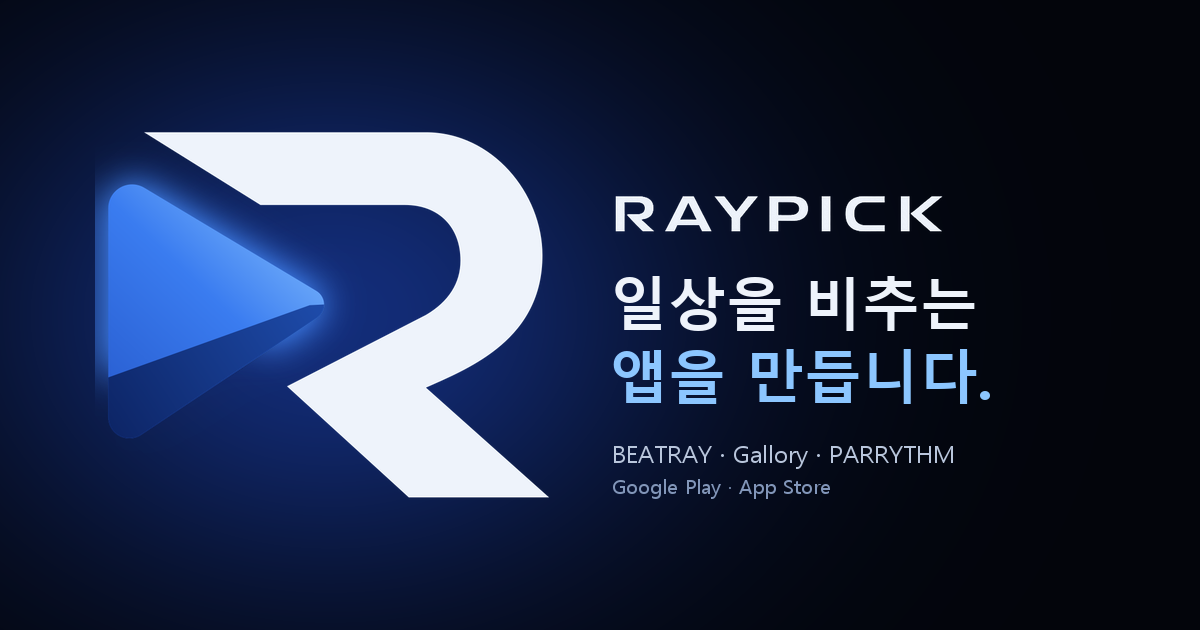
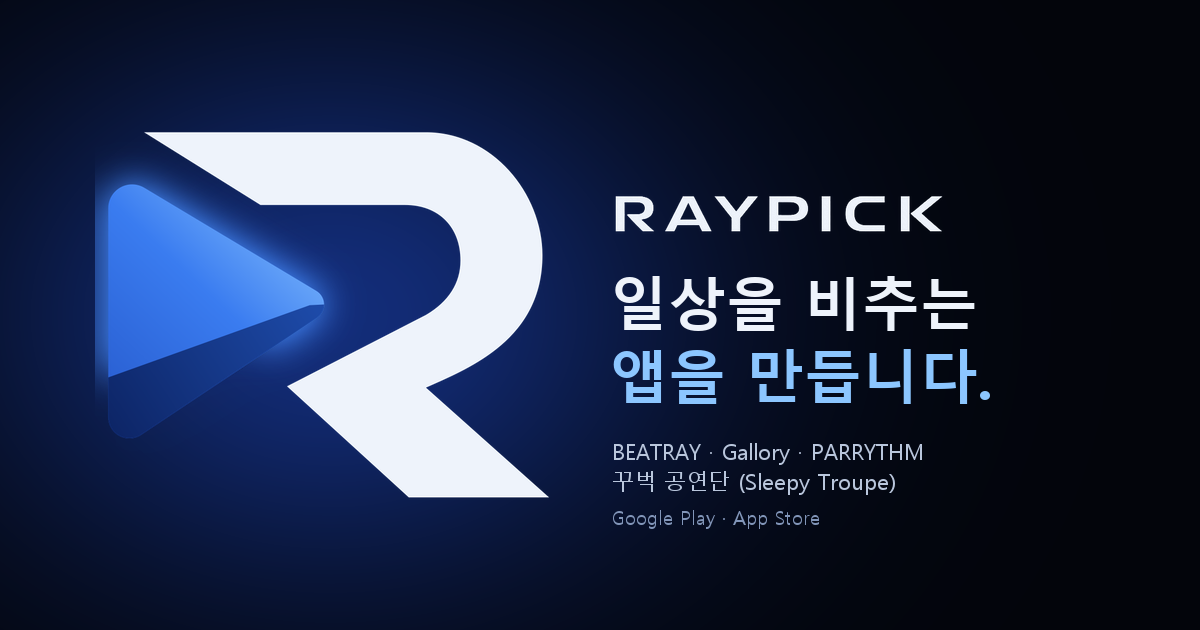
Add Sleepy Troupe (live on Google Play); phone carousel for any number of apps

Changed region(s): [[0.4933, 0.6937, 0.8017, 0.7841], [0.5242, 0.8143, 0.6783, 0.8444]]

diff --git a/src/data/translations.ts b/src/data/translations.ts
@@ -9,7 +9,7 @@ const ko = {
   meta: {
     title: "Raypick — 일상을 비추는 앱을 만듭니다",
     description:
-      "레이픽은 앱을 직접 기획·디자인·개발해 출시하는 회사입니다. BEATRAY, Gallory, PARRYTHM을 Google Play와 App Store에서 만나보세요.",
+      "레이픽은 앱을 직접 기획·디자인·개발해 출시하는 회사입니다. BEATRAY, Gallory, PARRYTHM, 꾸벅 공연단을 Google Play와 App Store에서 만나보세요.",
   },
   nav: { apps: "앱", company: "회사", contact: "문의", menu: "메뉴 열기", close: "메뉴 닫기", lang: "English" },
   hero: {
@@ -30,7 +30,7 @@ const ko = {
     eyebrow: "One studio · Growing worlds",
     title1: "하나의 스튜디오,",
     title2: "계속 늘어나는 세계.",
-    sub: "리듬게임부터 사진 매거진,|동네 도움, 한일 번역 채팅까지.\n레이픽이 직접 기획하고|만들어 출시합니다.",
+    sub: "리듬게임과 퍼즐부터 사진 매거진,|동네 도움, 한일 번역 채팅까지.\n레이픽이 직접 기획하고|만들어 출시합니다.",
     live: "출시",
     coming: "출시 예정",
     updating: "업데이트 준비 중",
@@ -101,7 +101,7 @@ const en: Dict = {
   meta: {
     title: "Raypick — Apps that light up everyday life",
     description:
-      "Raypick plans, designs, builds and ships its own mobile apps. Meet BEATRAY, Gallory and PARRYTHM on Google Play and the App Store.",
+      "Raypick plans, designs, builds and ships its own mobile apps. Meet BEATRAY, Gallory, PARRYTHM and Sleepy Troupe on Google Play and the App Store.",
   },
   nav: { apps: "Apps", company: "Company", contact: "Contact", menu: "Open menu", close: "Close menu", lang: "한국어" },
   hero: {
@@ -122,7 +122,7 @@ const en: Dict = {
     eyebrow: "One studio · Growing worlds",
     title1: "One studio,",
     title2: "ever-growing worlds.",
-    sub: "From a rhythm game and a photo magazine|to neighborhood help and Korea–Japan translated chat —\nplanned, built and shipped by Raypick.",
+    sub: "From rhythm games, puzzles and a photo magazine|to neighborhood help and Korea–Japan translated chat —\nplanned, built and shipped by Raypick.",
     live: "Live",
     coming: "Coming soon",
     updating: "Update in progress",

diff --git a/src/lib/three/phoneScene.ts b/src/lib/three/phoneScene.ts
@@ -23,11 +23,18 @@ interface Phone {
 }
 
 const SW = 0.92, SH = 1.84, BW = 1.0, BH = 1.94, DEPTH = 0.07;
-const SLOTS = [
-  { x: 0, y: 0.12, z: 0.35, ry: -0.06, s: 1 }, // front
-  { x: 1.38, y: -0.14, z: -0.6, ry: -0.42, s: 0.84 }, // right
-  { x: -1.38, y: -0.1, z: -0.6, ry: 0.42, s: 0.84 }, // left
-];
+const FRONT = { x: 0, y: 0.12, z: 0.35, ry: -0.06, s: 1 };
+const RIGHT = { x: 1.38, y: -0.14, z: -0.6, ry: -0.42, s: 0.84 };
+const LEFT = { x: -1.38, y: -0.1, z: -0.6, ry: 0.42, s: 0.84 };
+const BACK = { x: 0, y: -0.04, z: -1.6, ry: 0, s: 0.7 }; // waits behind the front phone
+
+/** carousel spot of the phone `rel` places after the front one — works for any number of apps */
+function slotFor(rel: number, n: number) {
+  if (rel === 0) return FRONT;
+  if (rel === 1) return RIGHT;
+  if (rel === n - 1) return LEFT;
+  return BACK;
+}
 
 function roundedRect(w: number, h: number, r: number) {
   const s = new THREE.Shape(), x = -w / 2, y = -h / 2;
@@ -140,7 +147,7 @@ export class PhoneScene {
       const shadow = new THREE.Mesh(new THREE.PlaneGeometry(1, 1), new THREE.MeshBasicMaterial({ map: shadowTex, transparent: true, depthWrite: false }));
       shadow.rotation.x = -Math.PI / 2;
       this.scene.add(shadow);
-      const slot = { ...SLOTS[(i - this.active + apps.length) % apps.length] };
+      const slot = { ...slotFor((i - this.active + apps.length) % apps.length, apps.length) };
       this.phones.push({ group, a, b, textures, idx: 0, phase: 0, shadow, slot });
     });
 
@@ -218,7 +225,7 @@ export class PhoneScene {
     const n = this.phones.length;
     const k = Math.min(1, dt * 5);
     this.phones.forEach((p, i) => {
-      const target = SLOTS[(i - this.active + n) % n];
+      const target = slotFor((i - this.active + n) % n, n);
       p.slot.x += (target.x - p.slot.x) * k;
       p.slot.y += (target.y - p.slot.y) * k;
       p.slot.z += (target.z - p.slot.z) * k;

diff --git a/src/data/apps.ts b/src/data/apps.ts
@@ -115,6 +115,24 @@ export const apps: AppItem[] = [
     site: "https://parrythm.com",
   },
   {
+    slug: "sleepytroupe",
+    status: "live", // Google Play 2026-11 · App Store 심사 중 (통과하면 stores.ios 추가)
+    name: { ko: "꾸벅 공연단", en: "Sleepy Troupe" },
+    genre: { ko: "추리 퍼즐 게임", en: "Logic puzzle game" },
+    tagline: { ko: "팻말을 읽고 공연단을 제자리에!", en: "Read the signs, seat the troupe!" },
+    description: {
+      ko: "까다로운 꾸벅 공연단 단원들의 팻말을 읽고 모두가 바라는 자리에 앉혀, 잠 못 드는 손님을 재워 주는 추리 퍼즐이에요. 정답이 딱 하나인 손수 만든 퍼즐 200판을 풀 때마다 피아노 자장가가 한 소절씩 완성돼요.",
+      en: "Read each picky troupe member's sign and seat everyone just right so the sleepless guest drifts off to dreamland. 200 handmade logic puzzles, each with a single answer, and a piano lullaby that grows one bar with every puzzle you solve.",
+    },
+    color: "#C51029",
+    icon: "/apps/sleepytroupe/icon.webp",
+    screens: img("sleepytroupe", ["screen1.webp", "screen2.webp", "screen3.webp", "screen4.webp"]),
+    shots: img("sleepytroupe", ["shot1.webp", "shot2.webp", "shot3.webp", "shot4.webp"]),
+    frame: "#5B3F94",
+    stores: { android: "https://play.google.com/store/apps/details?id=com.raypick.sleepytroupe" },
+    site: "https://sleepytroupe.com",
+  },
+  {
     slug: "haruyo",
     status: "coming",
     name: { ko: "하루요", en: "Haruyo" },

diff --git a/src/components/AppDetail.tsx b/src/components/AppDetail.tsx
@@ -10,7 +10,7 @@ import StoreButtons from './StoreButtons';
 import styles from './AppDetail.module.css';
 
 /** store screenshot heights at 720px width (they differ per store / app) */
-const shotHeight: Record<string, number> = { beatray: 1440, parrythm: 1565 };
+const shotHeight: Record<string, number> = { beatray: 1440, parrythm: 1565, sleepytroupe: 1440 };
 
 export default function AppDetail({ slug }: { slug: string }) {
   const app = getApp(slug)!;

diff --git a/CONTEXT.md b/CONTEXT.md
@@ -3,7 +3,7 @@
 > 이 파일은 "지금까지의 핵심 기억"이다. 대화가 길어지거나 새로 시작해도 이 파일만 읽으면 이어서 일할 수 있다.
 > 설계·결정 이유 전체: [docs/DESIGN.md](docs/DESIGN.md) · 작업 내역·사용법: [CHANGELOG.md](CHANGELOG.md)
 
-**마지막 갱신:** 2026-10-26
+**마지막 갱신:** 2026-11-08
 
 ## 🎯 목표
 raypick.co.kr을 "실제로 앱을 출시하는 회사"로 보이게 하는 회사 홈페이지 (목적 = 회사 신뢰도, 앱 회사로만).
@@ -26,6 +26,7 @@ Next.js 16.4.3 (App Router) · React 19 · TypeScript · three.js 0.186 · Prete
 - 2026-10-10 다듬기: 휴대폰 로고 크게·아이콘은 로고보다 작게, 앞쪽 아이콘 선명(빛 번짐 뒤에 따로 그림)+네온 테두리·반사 빛, 줄바꿈 정리(6페이지 한·영 검사 0곳), 궤도 문구 "하나의 스튜디오, 계속 늘어나는 세계.", 안내 문구 삭제, 로고 테두리 흰 점선 제거(MSAA), 휴대폰 궤도 멈춤 수정(pointercancel 처리)·회전 2배.
 - 2026-10-26 PARRYTHM 출시 반영(구글 10/13·애플 10/26): 출시 앱으로 이동, 스토어 버튼 2개, 실제 게임 화면·공식 아이콘·스토어 문구. 이것좀 → `updating`. 회사 영문명 Raypick Co., Ltd. 통일. 공유 이미지·검색 설명 갱신. Next 16.4.0 → 16.4.3(심각 보안 경고 해결).
 - 2026-10-26 Gallory 1.2 새 디자인 반영(먹색·금박): 3D 휴대폰 화면 4장·앱 페이지 스크린샷 4장 교체, 대표 색 금박 #E7C677, 폰 테두리 #3A302A. 아이콘·소개 문구는 1.2에서도 그대로. ※ 1.2는 아직 스토어 제출 전(스토어는 1.1), gallory.app 사이트는 1.2 공개.
+- 2026-11-08 꾸벅 공연단(Sleepy Troupe) 출시 반영: 출시 앱 4개째(구글 플레이만, 애플은 심사 중), 게임 화면 4장·스토어 사진 4장·공식 아이콘·스토어 문구·공식 사이트 sleepytroupe.com. 3D 휴대폰을 앱 개수와 상관없이 도는 회전목마로 고침. 궤도 설명에 '퍼즐' 추가, 공유 이미지·검색 설명 갱신.
 - 모든 변경 배포 완료 — 실제 사이트에서 확인.
 - 검증 기준(설계 문서 6절): 휴대폰 첫 화면 2.6~2.8초(느린 4G 가정) · 접근성·SEO 100점 · 가로 넘침 없음 · 3D 꺼진 기기 대체 화면 · 실제 사이트용 부품 보안 경고 0건.
 
@@ -48,4 +49,5 @@ Next.js 16.4.3 (App Router) · React 19 · TypeScript · three.js 0.186 · Prete
 ## ▶ 다음에 할 일
 1. 이것좀이 구글 플레이에 다시 올라오면 `updating` → `live`로 되돌리기 (대표가 알려주면).
 2. 하루요 진짜 아이콘·스토어 출시 시 `public/apps/haruyo/` 교체 + `status: "live"`·스토어 링크 추가.
-3. BEATRAY App Store 출시 시 `stores.ios` 링크 추가.
+3. BEATRAY·꾸벅 공연단 App Store 출시 시 `apps.ts`의 `stores.ios` 링크 추가 (꾸벅 공연단: 2026-11-05 재제출, 심사 대기).
+- 참고: 꾸벅 공연단 게임 폴더는 `D:\GameDev\counting-sheep` (GitHub에 안 올린 기록이 많음).

diff --git a/CHANGELOG.md b/CHANGELOG.md
@@ -34,6 +34,11 @@
 - 배포 후 다듬기: 로고 누르면 맨 위로 이동, 세로 태블릿 첫 화면 배치, 실제 사이트 모바일 첫 화면 2.6~2.8초 확인
 - 궤도 → 앱 소개 전환: 흰 섬광을 없애고 새벽빛 전환으로, 첫 앱이 제목 바로 아래 나오게, 3D 휴대폰을 미리 준비
 
+## 2026-11-08 — 꾸벅 공연단(Sleepy Troupe) 출시 반영
+- 새 출시 앱: 꾸벅 공연단 / Sleepy Troupe (추리 퍼즐, Google Play). 애플은 심사 중이라 App Store 버튼은 통과 후 `stores.ios`에 링크만 넣으면 됨
+- 3D 휴대폰: 앱이 4개 이상이어도 돌도록 회전목마 방식(앞·오른쪽·왼쪽, 나머지는 뒤에서 대기)
+- 궤도 설명에 '퍼즐' 추가, 공유 미리보기 이미지·검색 설명에 새 게임 이름
+
 ## 2026-10-26 — Gallory 1.2 새 디자인 반영
 - Gallory 화면을 1.2 디자인(먹색 바탕·금박)으로 교체: 3D 휴대폰 화면 4장(새 첫 화면·표지 편집·무드 갈아입기·스티커 붓), 앱 페이지 스크린샷 4장(1.2 스토어 A안)
 - 대표 색을 금박색 #E7C677로, 3D 폰 테두리를 #3A302A로. 아이콘·소개 문구는 바뀌지 않아 그대로
